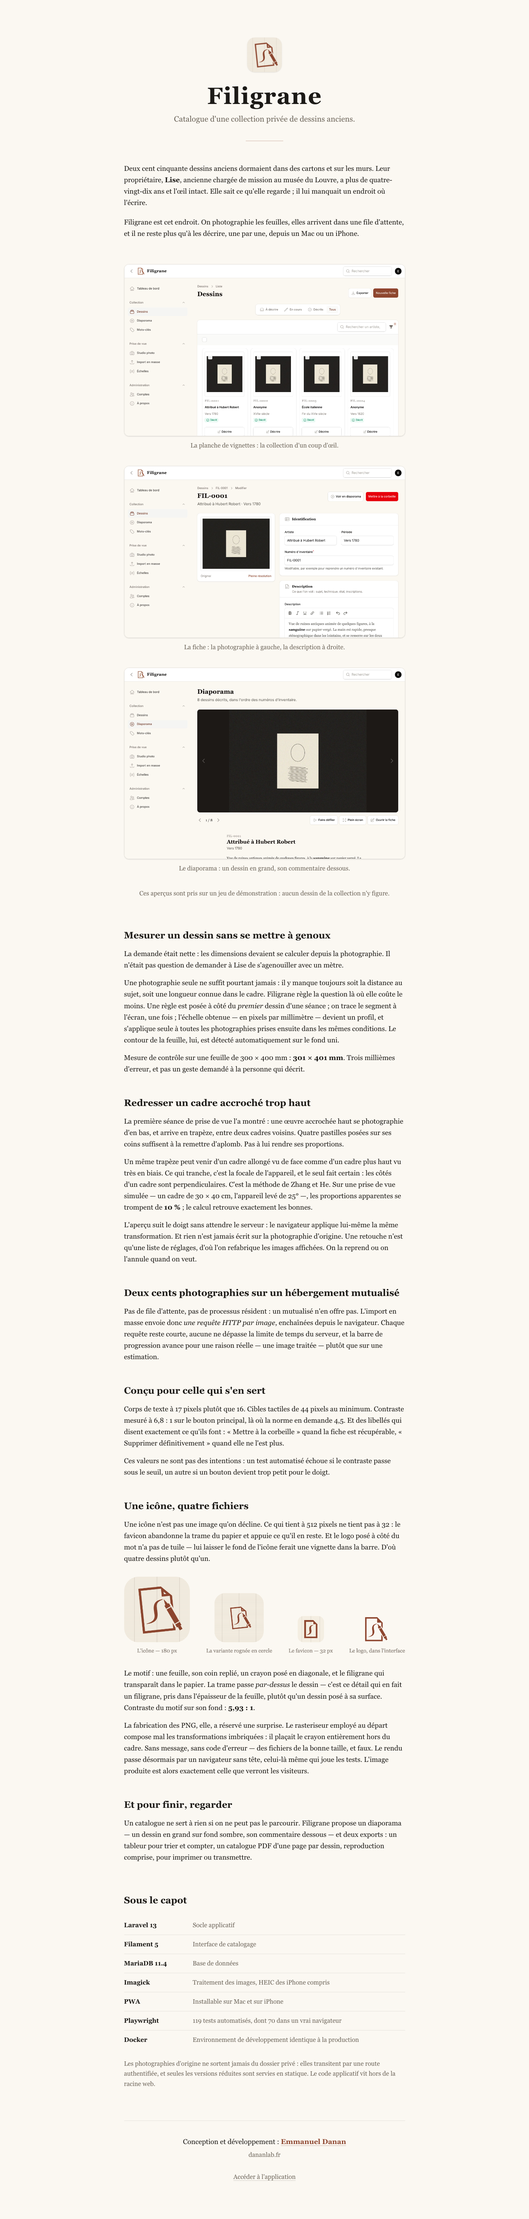
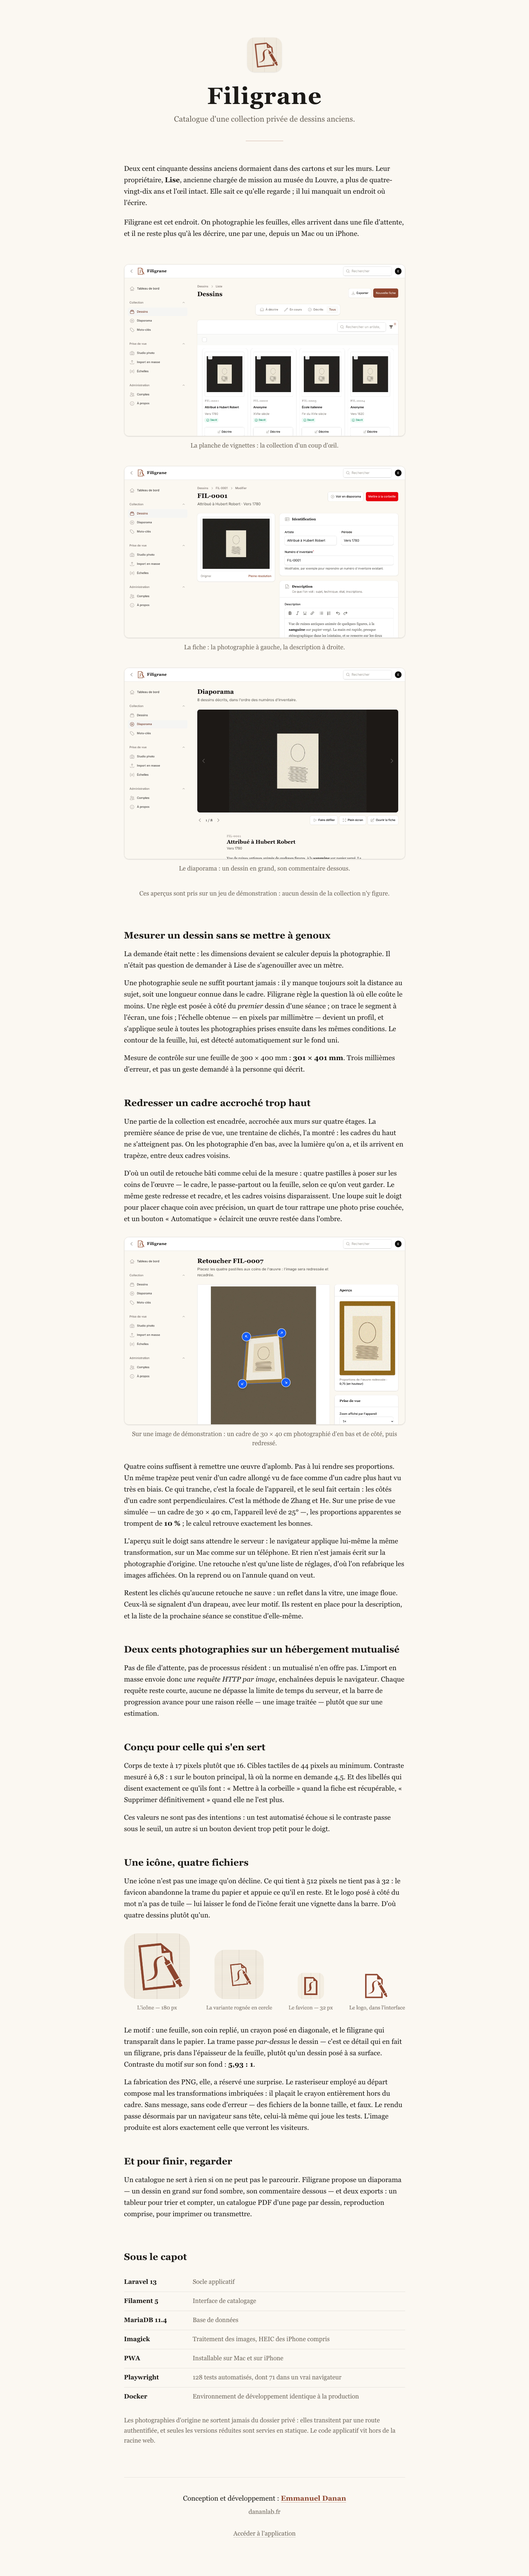
Présente la retouche des photographies sur la page publique
L'article « Redresser un cadre accroché trop haut » raconte maintenant
l'outil tel qu'on s'en sert : les cadres accrochés haut, photographiés d'en
bas, redressés et recadrés d'un geste, éclaircis, et les clichés
irrécupérables signalés à refaire. Il est illustré d'un aperçu de la
retouche, pris sur l'image fabriquée du cadre en perspective, jointe au jeu
d'essai comme vue au mur.

Changed region(s): [[0.2188, 0.0, 0.75, 0.9651], [0.4375, 0.9651, 0.5625, 0.9962]]

diff --git a/resources/views/a-propos.blade.php b/resources/views/a-propos.blade.php
@@ -146,16 +146,43 @@
                 <h2 class="text-2xl font-semibold">Redresser un cadre accroché trop haut</h2>
 
                 <p class="mt-4 text-lg leading-relaxed">
-                    La première séance de prise de vue l'a montré : une œuvre
-                    accrochée haut se photographie d'en bas, et arrive en
-                    trapèze, entre deux cadres voisins. Quatre pastilles posées
-                    sur ses coins suffisent à la remettre d'aplomb. Pas à lui
-                    rendre ses proportions.
+                    Une partie de la collection est encadrée, accrochée aux murs
+                    sur quatre étages. La première séance de prise de vue, une
+                    trentaine de clichés, l'a montré : les cadres du haut ne
+                    s'atteignent pas. On les photographie d'en bas, avec la
+                    lumière qu'on a, et ils arrivent en trapèze, entre deux
+                    cadres voisins.
                 </p>
 
                 <p class="mt-4 text-lg leading-relaxed">
-                    Un même trapèze peut venir d'un cadre allongé vu de face
-                    comme d'un cadre plus haut vu très en biais. Ce qui tranche,
+                    D'où un outil de retouche bâti comme celui de la mesure :
+                    quatre pastilles à poser sur les coins de l'œuvre — le
+                    cadre, le passe-partout ou la feuille, selon ce qu'on veut
+                    garder. Le même geste redresse et recadre, et les cadres
+                    voisins disparaissent. Une loupe suit le doigt pour placer
+                    chaque coin avec précision, un quart de tour rattrape une
+                    photo prise couchée, et un bouton «&nbsp;Automatique&nbsp;» éclaircit
+                    une œuvre restée dans l'ombre.
+                </p>
+
+                <figure class="mt-8">
+                    <img
+                        src="/apercus/retouche.jpg"
+                        alt="L'outil de retouche : à gauche, la photographie, avec quatre pastilles bleues sur les coins du cadre ; à droite, l'aperçu du cadre redressé."
+                        loading="lazy"
+                        class="w-full rounded-xl border border-encre/10 shadow-sm dark:border-papier/10"
+                    >
+                    <figcaption class="mt-3 text-center text-base text-gris dark:text-gris-clair">
+                        Sur une image de démonstration : un cadre de 30 × 40 cm
+                        photographié d'en bas et de côté, puis redressé.
+                    </figcaption>
+                </figure>
+
+                <p class="mt-8 text-lg leading-relaxed">
+                    Quatre coins suffisent à remettre une œuvre d'aplomb. Pas à
+                    lui rendre ses proportions. Un même trapèze peut venir d'un
+                    cadre allongé vu de face comme d'un cadre plus haut vu très
+                    en biais. Ce qui tranche,
                     c'est la focale de l'appareil, et le seul fait certain :
                     les côtés d'un cadre sont perpendiculaires. C'est la
                     méthode de Zhang et He. Sur une prise de vue simulée — un
@@ -166,11 +193,19 @@
 
                 <p class="mt-4 text-lg leading-relaxed">
                     L'aperçu suit le doigt sans attendre le serveur : le
-                    navigateur applique lui-même la même transformation. Et
-                    rien n'est jamais écrit sur la photographie d'origine. Une
-                    retouche n'est qu'une liste de réglages, d'où l'on
-                    refabrique les images affichées. On la reprend ou on
-                    l'annule quand on veut.
+                    navigateur applique lui-même la même transformation, sur un
+                    Mac comme sur un téléphone. Et rien n'est jamais écrit sur
+                    la photographie d'origine. Une retouche n'est qu'une liste
+                    de réglages, d'où l'on refabrique les images affichées. On
+                    la reprend ou on l'annule quand on veut.
+                </p>
+
+                <p class="mt-4 text-lg leading-relaxed">
+                    Restent les clichés qu'aucune retouche ne sauve : un reflet
+                    dans la vitre, une image floue. Ceux-là se signalent d'un
+                    drapeau, avec leur motif. Ils restent en place pour la
+                    description, et la liste de la prochaine séance se constitue
+                    d'elle-même.
                 </p>
             </article>
 

diff --git a/app/Console/Commands/JeuDEssai.php b/app/Console/Commands/JeuDEssai.php
@@ -78,6 +78,8 @@ class JeuDEssai extends Command
             'description' => '<p>Projet de dessus-de-porte à la plume et lavis gris : une cartouche rocaille encadrant un motif de trophée. Le tracé à la règle et au compas est encore apparent sous le lavis.</p>',
             'note' => '<p>Encadré, salon. Vitre à dépoussiérer.</p>',
             'tags' => ['Encadré — salon'],
+            // Une vue au mur, prise d'en bas : de quoi montrer la retouche.
+            'vue_au_mur' => true,
         ],
         [
             'artist' => 'Jean-Baptiste Oudry',
@@ -105,12 +107,15 @@ class JeuDEssai extends Command
         }
 
         $source = base_path('tests/fixtures/dessin-recto.jpg');
+        $cadre = base_path('tests/fixtures/cadre-en-perspective.jpg');
 
-        if (! is_readable($source)) {
-            $this->error("Image de référence introuvable : {$source}");
-            $this->line('Lancez d\'abord : php scripts/generer-images-test.php');
+        foreach ([$source, $cadre] as $image) {
+            if (! is_readable($image)) {
+                $this->error("Image de référence introuvable : {$image}");
+                $this->line('Lancez d\'abord : php scripts/generer-images-test.php');
 
-            return self::FAILURE;
+                return self::FAILURE;
+            }
         }
 
         $nombre = min((int) $this->option('nombre'), count(self::PLANCHES));
@@ -125,6 +130,10 @@ class JeuDEssai extends Command
             ]);
 
             $importeur->import($dessin, $source, 'dessin-recto.jpg', ['kind' => PhotoKind::Recto]);
+
+            if ($planche['vue_au_mur'] ?? false) {
+                $importeur->import($dessin, $cadre, 'cadre-en-perspective.jpg', ['kind' => PhotoKind::Frame]);
+            }
 
             $dessin->tags()->sync(
                 collect($planche['tags'])

diff --git a/DOCS/02-architecture-technique.md b/DOCS/02-architecture-technique.md
@@ -397,9 +397,12 @@ cellule de tableur.
 ## Présentation publique
 
 `/a-propos` est la seule page lisible sans compte. Elle présente le projet et
-crédite l'auteur ; elle ne montre **aucune donnée réelle** — les trois aperçus
-sont pris sur le jeu d'essai (`filigrane:jeu-d-essai`, puis `make apercus`), et
-un test vérifie qu'aucun numéro d'inventaire n'y figure.
+crédite l'auteur ; elle ne montre **aucune donnée réelle** — les aperçus sont
+pris sur le jeu d'essai (`filigrane:jeu-d-essai`, puis `make apercus`), et un
+test vérifie qu'aucun numéro d'inventaire n'y figure. Celui de la retouche part
+de l'image fabriquée `tests/fixtures/cadre-en-perspective.jpg`, jointe à une
+fiche d'essai comme vue au mur : le script y pose les quatre pastilles sur les
+coins connus du cadre.
 
 Elle a sa propre feuille de style, `resources/css/app.css` : le thème Filament
 ne sert qu'au panneau.
